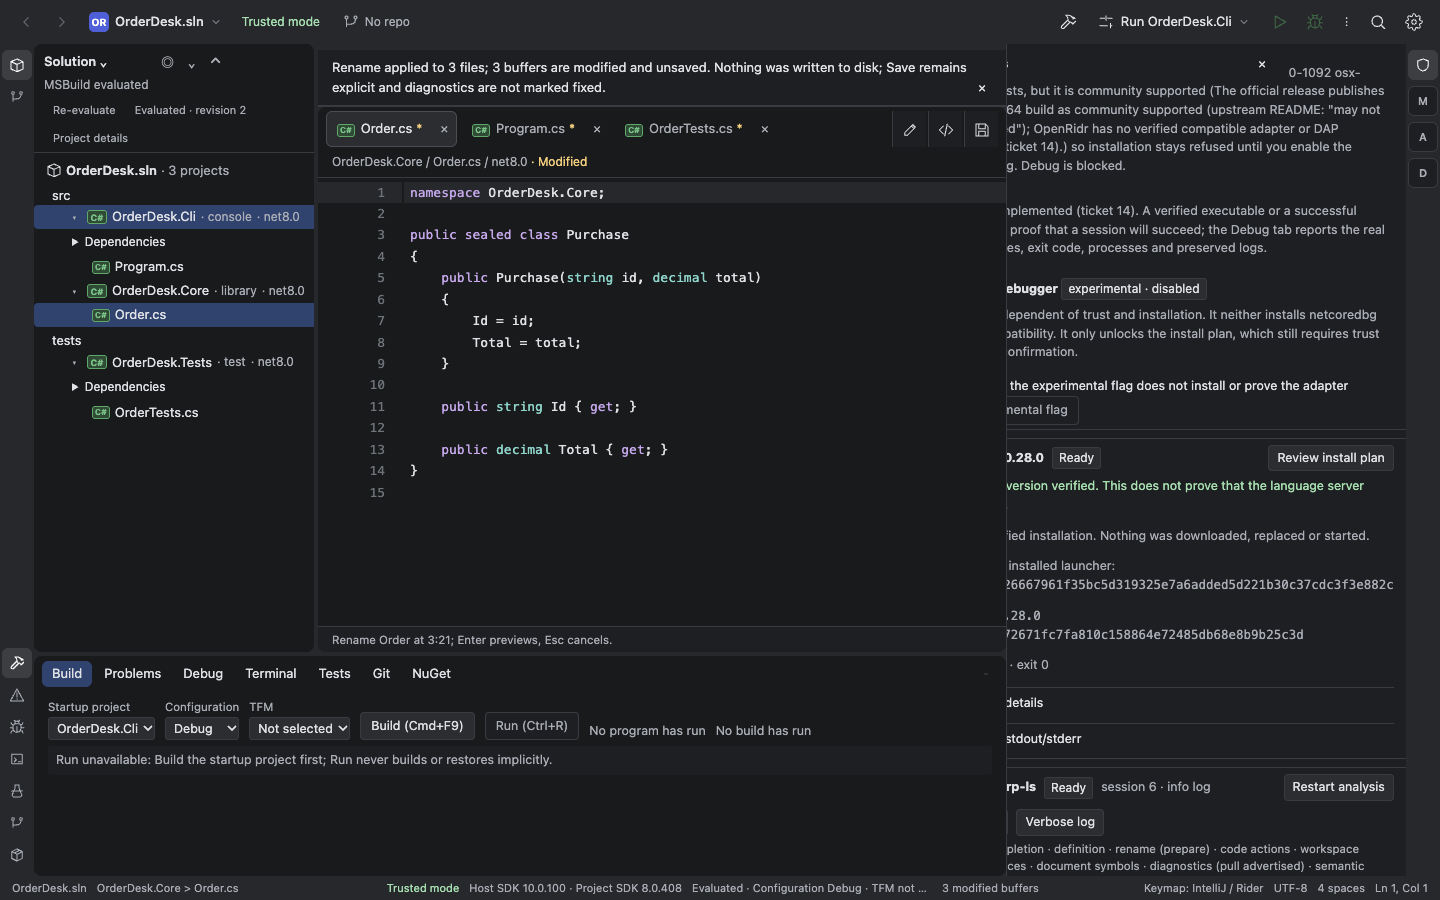
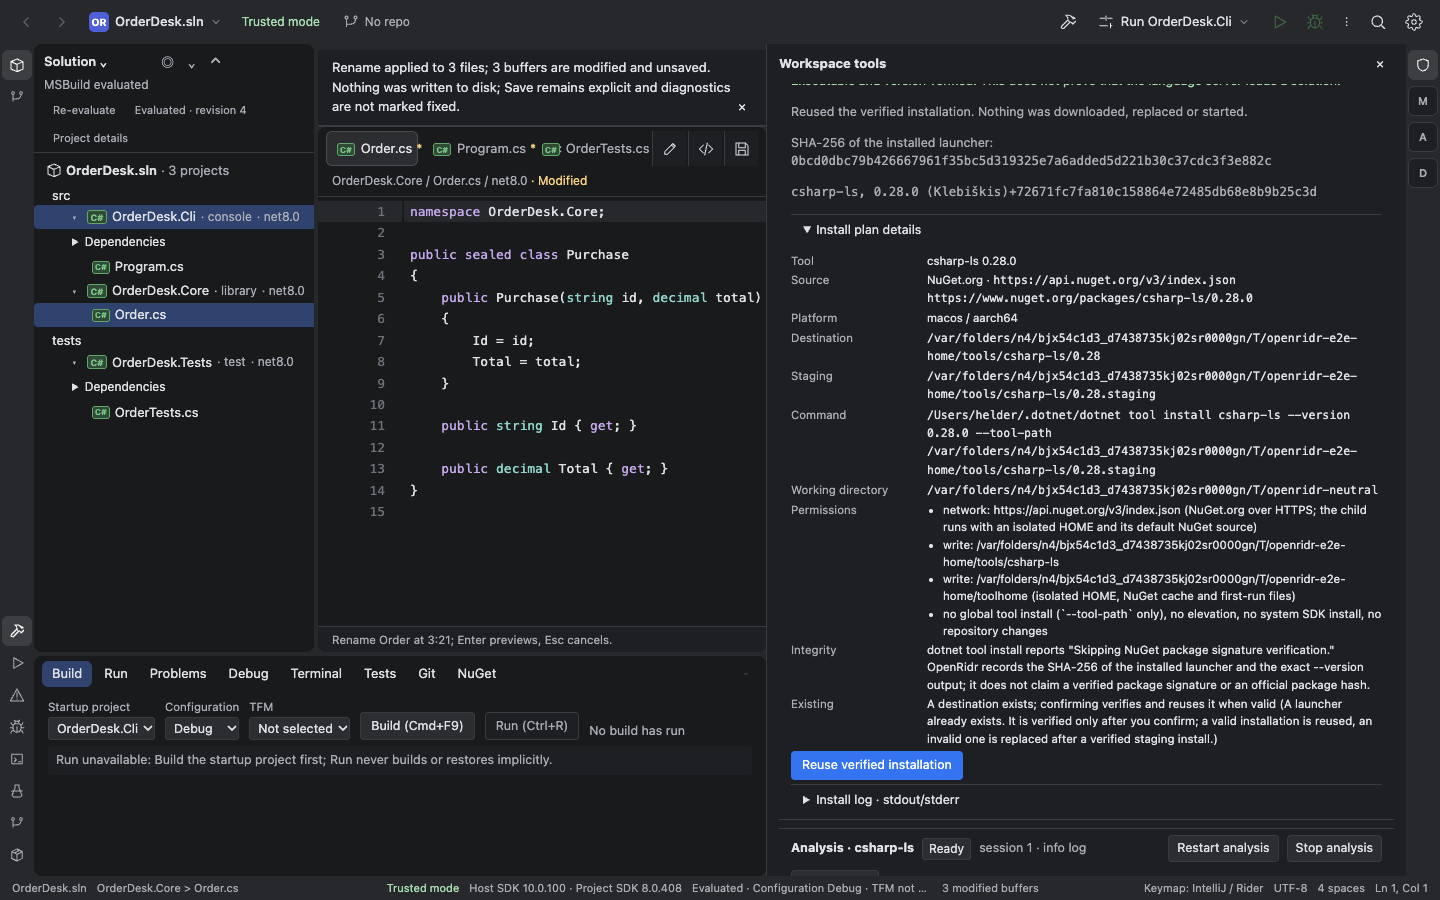
fix(editor): dock rename and code-action previews below the editor (M7)

diff --git a/tests/e2e/csharp-ls.spec.ts b/tests/e2e/csharp-ls.spec.ts
@@ -1054,16 +1054,15 @@ async function expectInViewport(page: Page, locator: Locator) {
 
 /** A real point in the editor text that hit-tests to the editor, not to the open popup. */
 async function uncoveredEditorPoint(page: Page, popupTestId: string) {
-  const editorBox = await page.locator(".cm-content").boundingBox();
+  const editorBox = await page.locator(".cm-scroller").boundingBox();
   const popupBox = await page.getByTestId(popupTestId).boundingBox();
   if (!editorBox || !popupBox) throw new Error("The editor or popup has no measurable box.");
-  // D-12 is about the popup covering the editor; this proves the geometry is real.
+  // M7: the popup is docked below the editor and must not cover its text.
   expect(
-    popupBox.x < editorBox.x + editorBox.width &&
-      popupBox.x + popupBox.width > editorBox.x &&
-      popupBox.y < editorBox.y + editorBox.height &&
-      popupBox.y + popupBox.height > editorBox.y,
+    popupBox.y >= editorBox.y + editorBox.height - 1 ||
+      popupBox.y + popupBox.height <= editorBox.y + 1,
   ).toBe(true);
+  expect(editorBox.height).toBeGreaterThanOrEqual(100);
   for (const xFraction of [0.92, 0.75, 0.6, 0.4, 0.2, 0.08]) {
     for (const yFraction of [0.92, 0.75, 0.6, 0.4, 0.2, 0.08]) {
       const point = {
@@ -1233,6 +1232,13 @@ test("rename previews real cross-project edits, cancels inert and applies to buf
       path: path.join(screenshots, "09-rename-preview.png"),
       fullPage: false,
     });
+    // M7: docked preview leaves editor text usable at the narrow supported size too.
+    await page.setViewportSize({ width: 1100, height: 700 });
+    await page.screenshot({
+      path: path.join(screenshots, "m7-rename-preview-1100x700.png"),
+      fullPage: false,
+    });
+    await page.setViewportSize({ width: 1440, height: 900 });
     await page.getByTestId("rename-preview").evaluate((element) => {
       element.scrollTop = element.scrollHeight;
     });
@@ -1500,6 +1506,10 @@ test("code actions are listed from csharp-ls and preview/apply without writing d
 
     await page.setViewportSize({ width: 1100, height: 700 });
     await expect(panel).toBeVisible();
+    await page.screenshot({
+      path: path.join(screenshots, "m7-code-actions-1100x700.png"),
+      fullPage: false,
+    });
     await expect(page.getByTestId("rename-open")).toHaveAccessibleName(/Rename symbol/);
     await expect(page.getByTestId("code-actions-open")).toHaveAccessibleName(/Code actions/);
     await expect(page.getByTestId("save-file")).toHaveAccessibleName(/Save/);

diff --git a/src/WorkspaceView.tsx b/src/WorkspaceView.tsx
@@ -227,16 +227,6 @@ function isDirty(tab: Tab) {
   return tab.revision !== tab.savedRevision || tab.conflict !== null;
 }
 
-function editorPopupStyle() {
-  const editor = document.querySelector<HTMLElement>('[data-testid="editor-shell"]');
-  const x = Number(editor?.dataset.anchorX ?? 24);
-  const y = Number(editor?.dataset.anchorY ?? 24);
-  return {
-    left: `max(8px, min(${x}px, calc(100% - 536px)))`,
-    top: `max(8px, min(calc(${y}px + 10px), calc(100% - 420px)))`,
-  };
-}
-
 function lineDiffCount(buffer: string, disk: string) {
   const left = buffer.split("\n");
   const right = disk.split("\n");
@@ -3955,7 +3945,6 @@ export function WorkspaceView({ snapshot, initialFile, recentSolutions, onOpenRe
               {findUsages && (
                 <FindUsagesPanel
                   className="rename-preview find-usages editor-popup"
-                  style={editorPopupStyle()}
                   response={findUsages.response}
                   snippets={findUsages.snippets}
                   onNavigate={(path, position) => void navigateTo(path, position)}
@@ -3977,7 +3966,6 @@ export function WorkspaceView({ snapshot, initialFile, recentSolutions, onOpenRe
                   data-id={previewId(editPreview)}
                   data-files={previewDocs.length}
                   data-edits={previewEditCount(editPreview)}
-                  style={editorPopupStyle()}
                   onKeyDown={(event) => {
                     if (event.key === "Escape") cancelEditPreview();
                   }}
@@ -4100,7 +4088,6 @@ export function WorkspaceView({ snapshot, initialFile, recentSolutions, onOpenRe
                   data-state={actionList.response.state}
                   data-session={actionList.session}
                   data-revision={actionList.sourceRevision}
-                  style={editorPopupStyle()}
                   onKeyDown={(event) => {
                     if (event.key === "Escape") cancelActionList();
                   }}

diff --git a/src/styles.css b/src/styles.css
@@ -1182,16 +1182,14 @@ kbd { font: 11px var(--sans); color: var(--muted); }
   font-size: 0.95rem;
 }
 
+/* M7: previews dock below the editor (flex order) instead of floating over the text. */
 .editor-popup {
-  position: absolute;
-  z-index: 60;
+  order: 2;
+  flex: 0 0 auto;
   box-sizing: border-box;
-  width: min(520px, calc(100% - 16px));
-  max-height: min(60%, 420px);
+  max-height: min(32%, 300px);
   overflow: auto;
-  border: 1px solid var(--accent);
-  border-radius: 4px;
-  box-shadow: 0 10px 28px #0009;
+  border-top: 1px solid var(--accent);
 }
 
 /* Apply and Cancel stay inside the preview box at every size; -10px pushed them past its bottom edge. */
@@ -1201,10 +1199,6 @@ kbd { font: 11px var(--sans); color: var(--muted); }
   z-index: 1;
   padding: 6px 0 0;
   background: var(--panel);
-}
-
-@media (max-width: 560px) {
-  .editor-popup { left: 8px !important; width: calc(100% - 16px); }
 }
 
 .rename-files {

diff --git a/src/CodeEditor.tsx b/src/CodeEditor.tsx
@@ -430,12 +430,6 @@ export function CodeEditor({
     const line = instance.state.doc.lineAt(position);
     if (host.current) {
       host.current.dataset.cursor = `${line.number - 1}:${position - line.from}`;
-      const pane = host.current.closest(".editor-pane")?.getBoundingClientRect();
-      const anchor = instance.coordsAtPos(position);
-      if (pane && anchor) {
-        host.current.dataset.anchorX = String(anchor.left - pane.left);
-        host.current.dataset.anchorY = String(anchor.bottom - pane.top);
-      }
     }
     onCursorRef.current({ line: line.number - 1, character: position - line.from });
   }

diff --git a/docs/implementation-notes.md b/docs/implementation-notes.md
@@ -530,3 +530,9 @@ Welcome — recentes verificados (2026-10-29): spec `welcome lists recent soluti
 - Evidência de hook: **check standalone verificado; hook histórico não comprovado.** `core.hooksPath` configurado aponta para `/Users/helder/Projetos/openridr/.git/hooks`, onde não existe `pre-commit`; o `.githooks/pre-commit` versionado é 100755 e executa `bun run check`, mas commits anteriores não provam que ele rodou. Este followup usa `git -c core.hooksPath=.githooks` no commit e registra o trace em `/tmp/openridr-d13-final-review/hook-trace.jsonl`.
 - **Auditoria independente terminal: APROVADO.** Standards e Spec aprovados, 0 findings acionáveis, por leitura + evidência registrada, sem novas suítes, no intervalo fixo `6de4bea..1c2eb25`. O produto D13 já estava aprovado em `6de4bea`; os P2 de cleanup partial-open/unknown-state e hook contemporâneo foram fechados em `1c2eb25`. Isto fecha o **batch D12/D13**; D12 permanece aprovado desde `7d5b62e`. Receipts: `/tmp/openridr-review-1c2eb25-v2qjn/` (`final-head.log`, `final-status.log`, `commits.log`, `diff.log`, `scope.log`, `whitespace.log`, `product.log`, `hook-mode.log`, `hook-config.log`). Não é aceite global do projeto.
 - Limites: cleanup aceito apenas no host E2E exclusivo/serial, workers=1, sem outro ator; snapshot->close **não** é transação nem enforcement atômico de posse. Sem prova nativa Tauri, Windows, Intel ou suíte completa; erro de rede real não coberto. M7/overlay permanece não resolvido.
+
+## M7 — previews docados (ticket 31, 2026-10-31)
+
+- `src/styles.css`: `.editor-popup` virou item flex (`order:2`) do `.editor-pane`; `WorkspaceView` perdeu `editorPopupStyle`, `CodeEditor` perdeu `data-anchor-*`. Spec D-12 mede `.cm-scroller` (não `.cm-content`, cuja caixa inclui o texto rolado) e exige ausência de sobreposição.
+- Observado: uma primeira rodada do teste "code actions are listed" falhou em `restore-reload` desabilitado (corrida do restore automático, não do layout); repetido isolado e com o grupo, passou. Registrado como flake não investigado.
+- Regenerar os specs sobrescreve `09-*`/`10-*` screenshots (agora mostram o layout docado); logs `10-*` foram revertidos.

diff --git a/docs/tickets-mvp/31-m7-preview-docked.md b/docs/tickets-mvp/31-m7-preview-docked.md
@@ -1,0 +1,9 @@
+# 31 — M7: previews docados, sem cobrir o editor
+
+- [x] Rename preview, code actions e Find Usages deixam de flutuar sobre o editor; docam abaixo dele (CSS `.editor-popup`).
+- [x] Remover o cálculo de posição (`editorPopupStyle`, `data-anchor-*`).
+- [x] D-12: click no texto e Esc continuam cancelando; testid/foco/Apply guards intactos. Geometria afirmada em `csharp-ls.spec.ts` (sem sobreposição; editor ≥100 px a 1100×700).
+- [x] Capturas: `docs/evidence/screenshots/09-rename-preview.png` (1440×900), `m7-rename-preview-1100x700.png`, `m7-code-actions-1100x700.png`.
+- [x] `bun run check`, `bun run build`, `csharp-ls.spec.ts -g "code actions are listed|rename|D-12"`.
+
+Não verificado: Tauri nativo, Windows, Intel; suíte completa. Rename inline com destaque do range segue fora.
